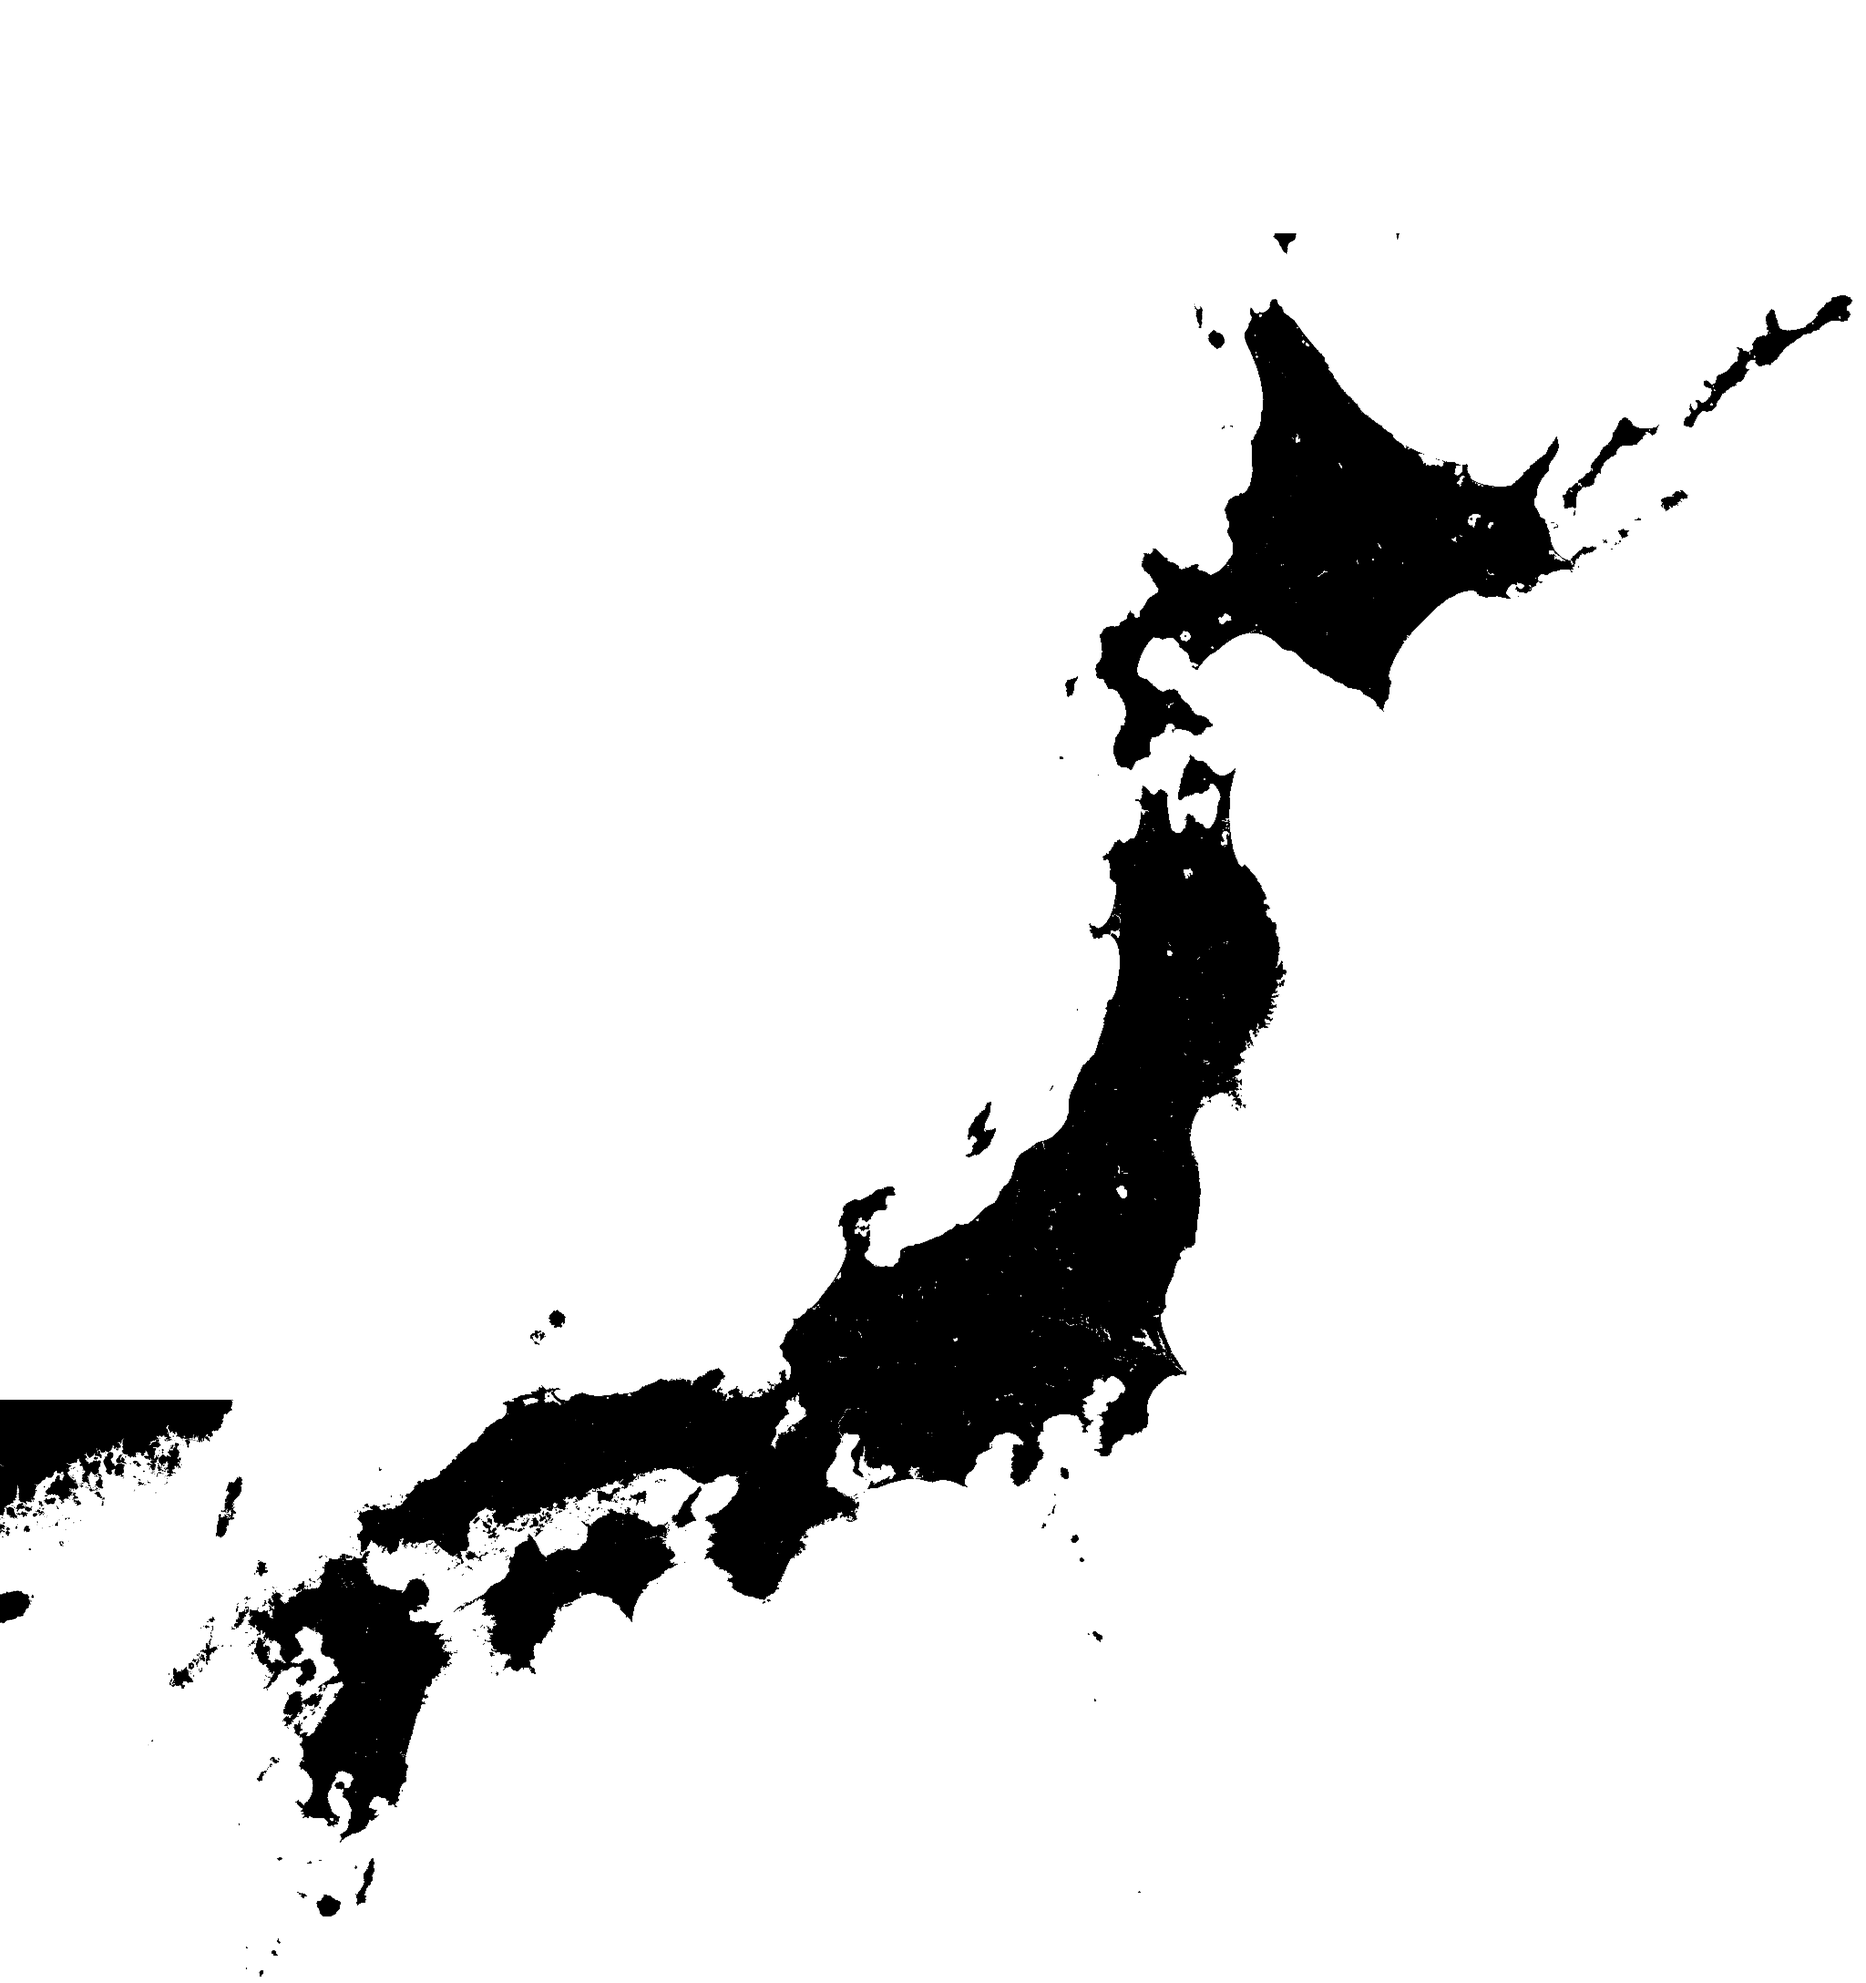
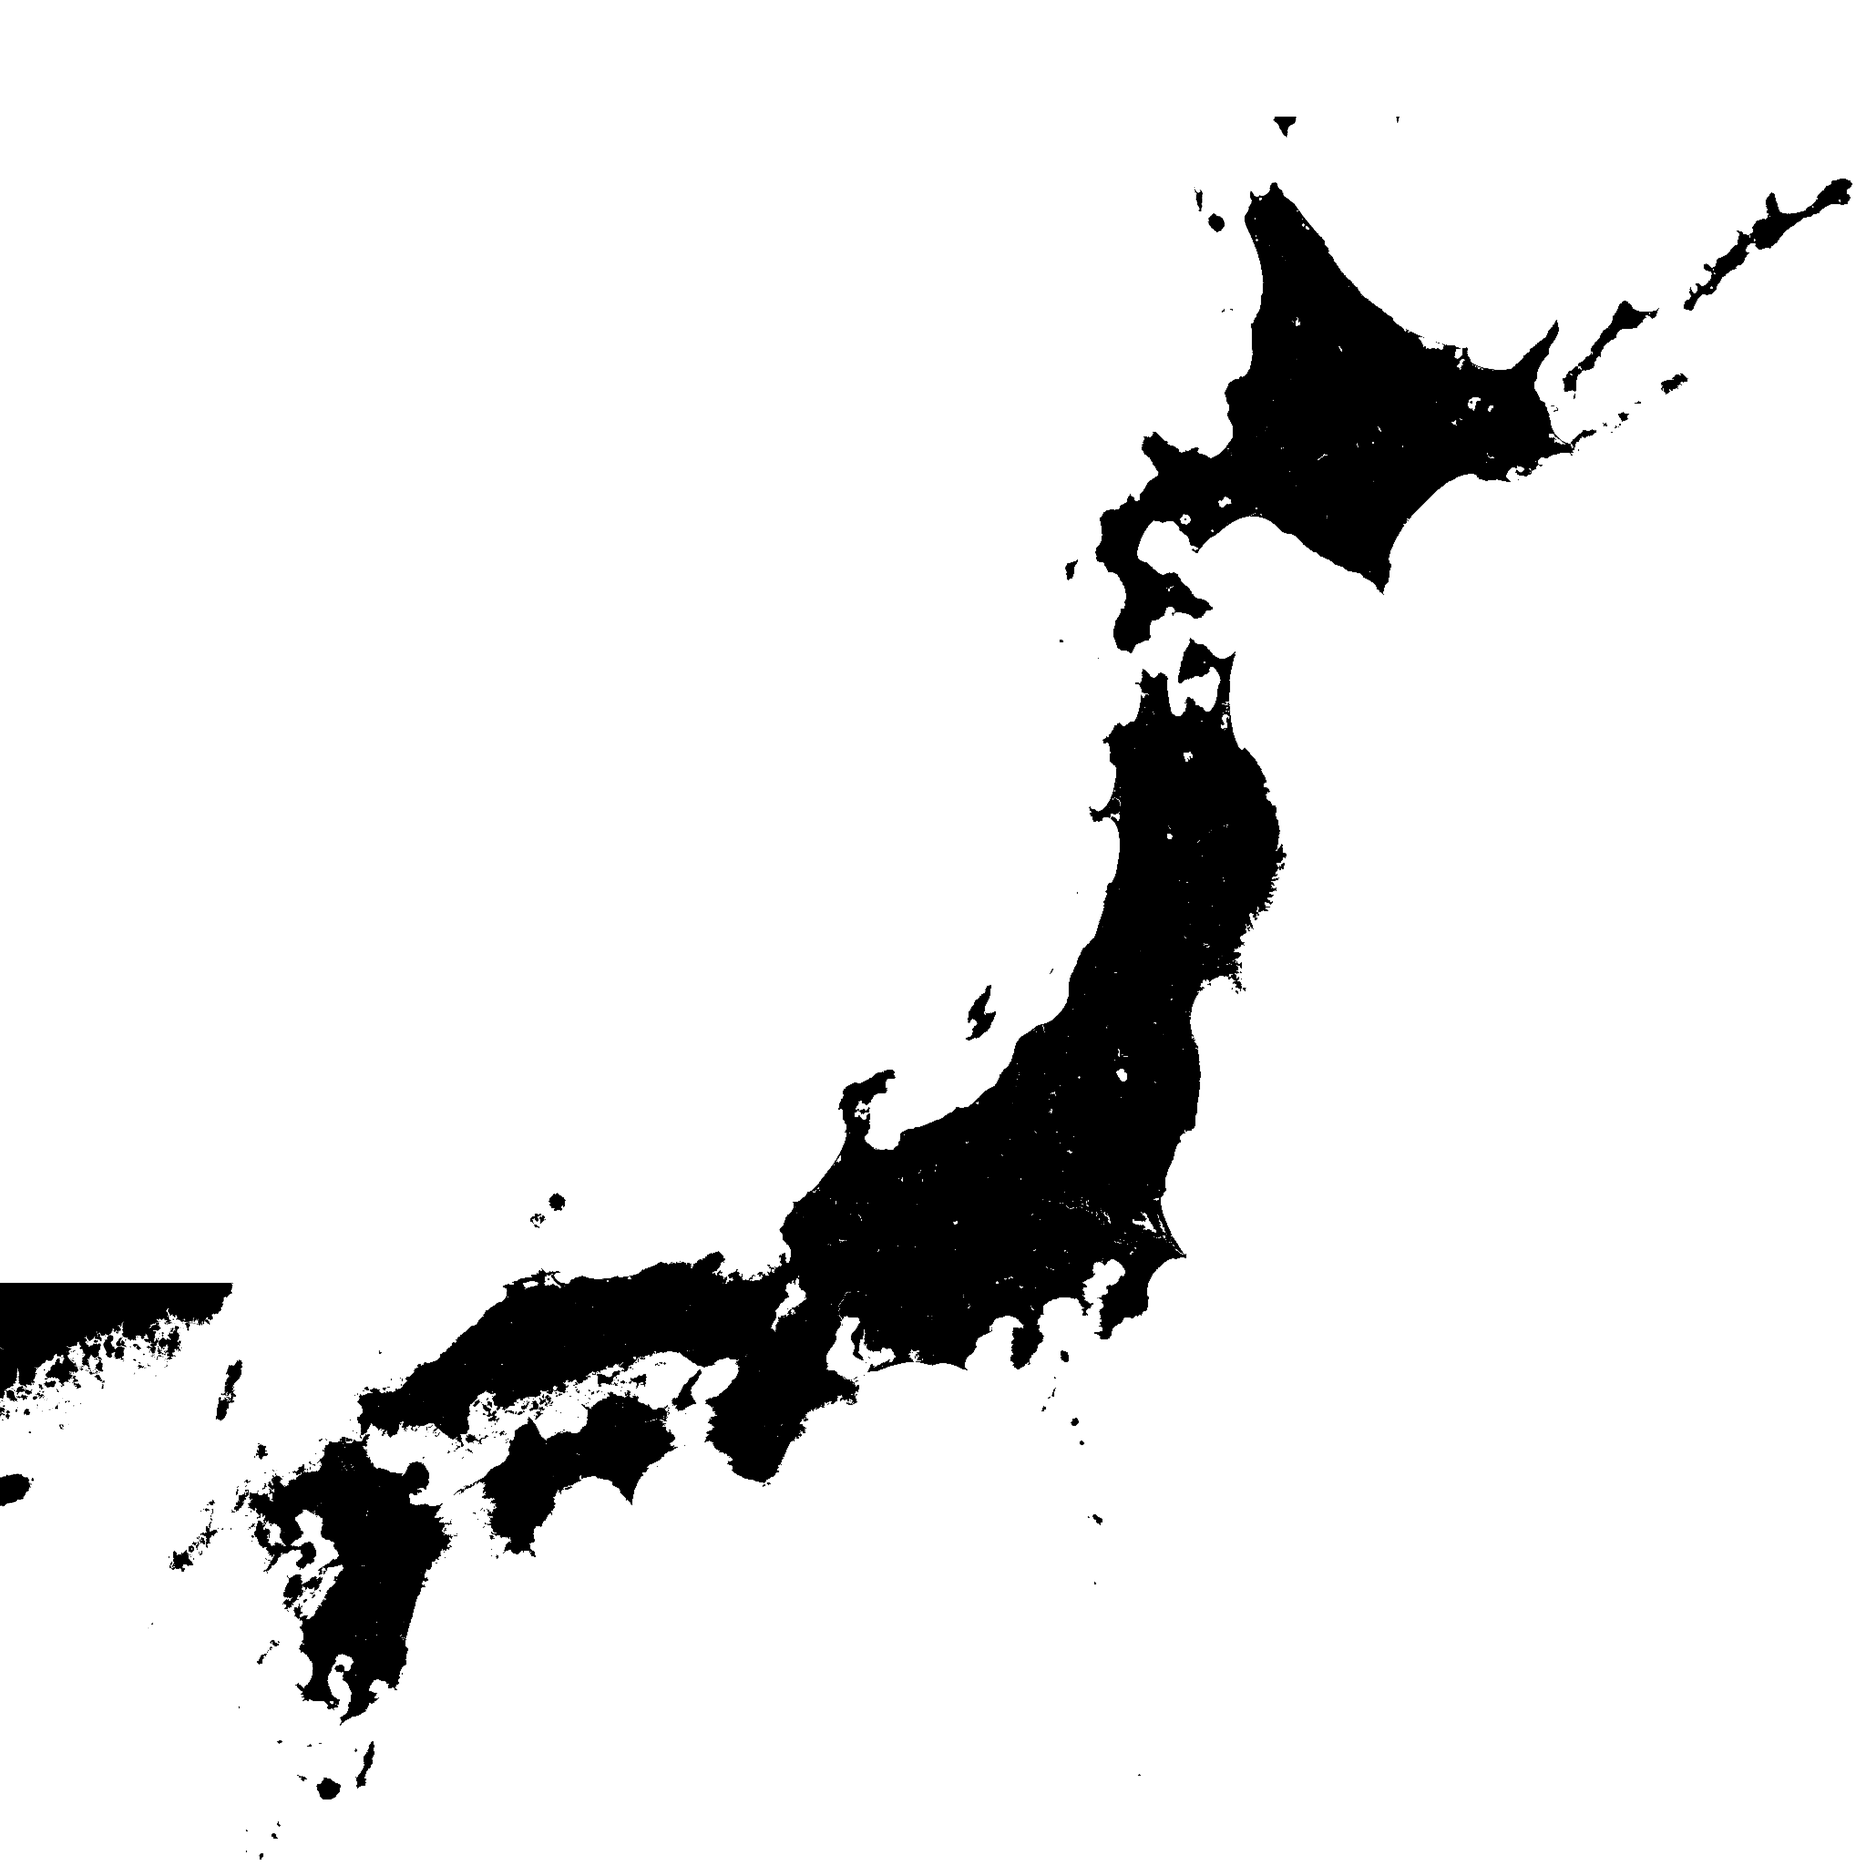
fix: vCombine

Changed region(s): [[0.0938, 0.0938, 1.0, 0.9375], [0.0, 0.6875, 0.125, 0.8125]]

diff --git a/Project/GeographicDataToSimulationGrid/include/ImageCombiner.hpp b/Project/GeographicDataToSimulationGrid/include/ImageCombiner.hpp
@@ -85,7 +85,7 @@ namespace paxs{
             if(std::filesystem::exists(path)){
 		        combined_img = cv::imread(path);
             }
-            for(int y=0;y<y_size;y++){
+            for(int y=1;y<y_size;y++){
                 std::string path = getFilePath(x, start_y + y);
                 if(std::filesystem::exists(path)){
 			        cv::Mat img = cv::imread(path);
